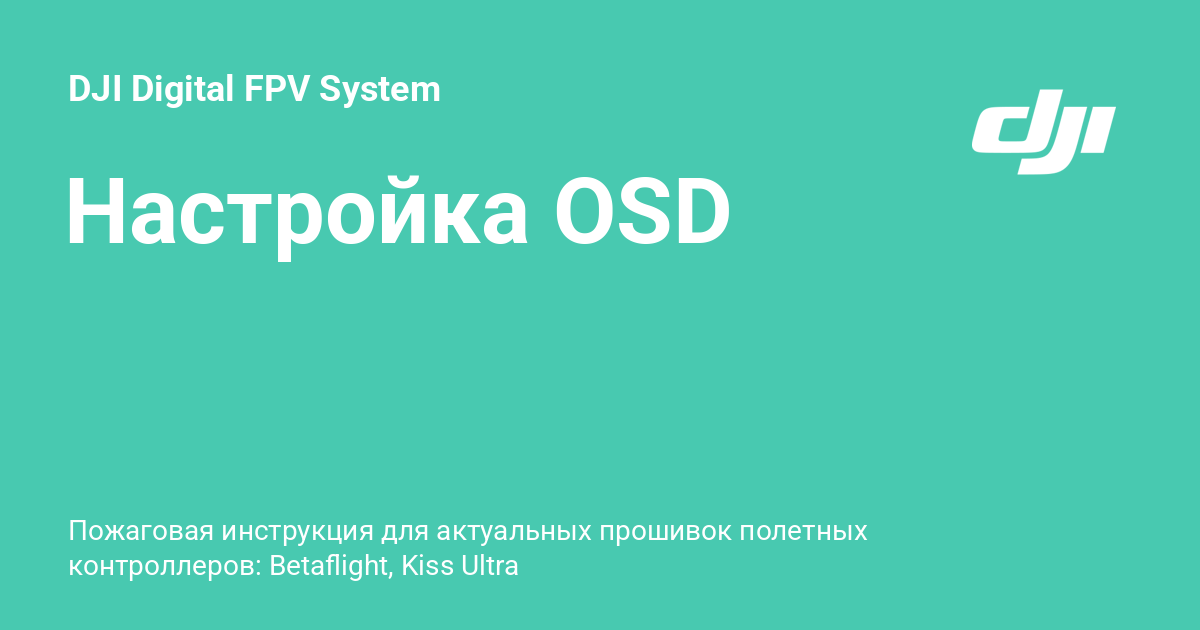
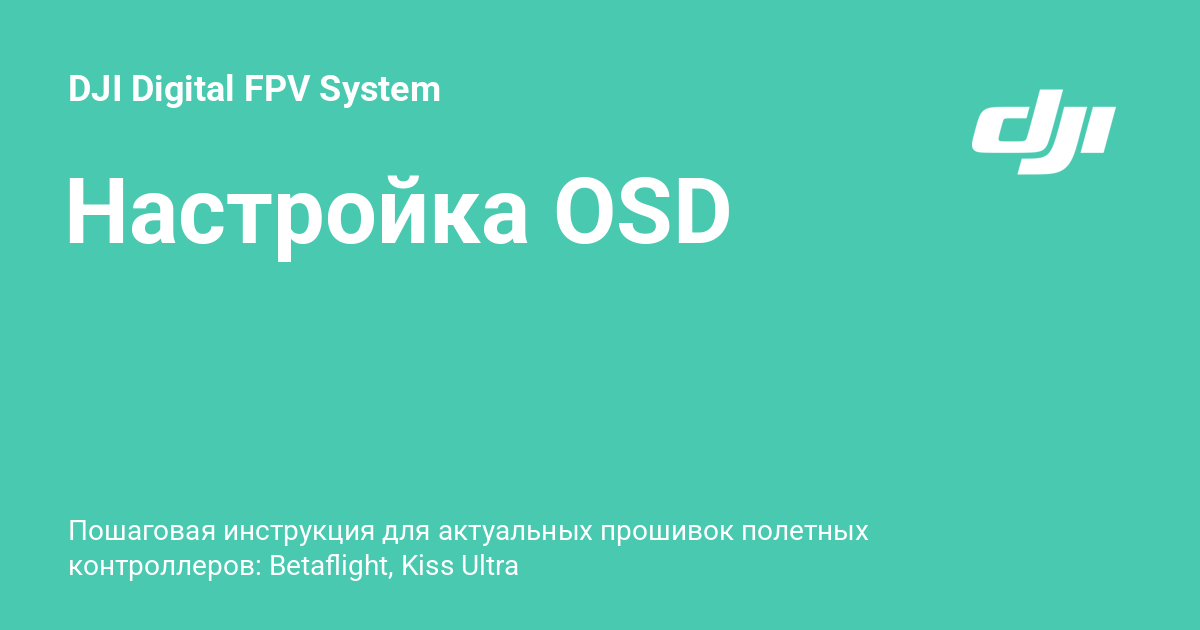
Deployed dc4ec415 with MkDocs version: 1.6.1

Changed region(s): [[0.0925, 0.8143, 0.7092, 0.8746]]

diff --git a/knowledge_base/osd/index.html b/knowledge_base/osd/index.html
@@ -6,7 +6,7 @@
       <meta charset="utf-8">
       <meta name="viewport" content="width=device-width,initial-scale=1">
       
-        <meta name="description" content="Пожаговая инструкция для актуальных прошивок полетных контроллеров: Betaflight, Kiss Ultra">
+        <meta name="description" content="Пошаговая инструкция для актуальных прошивок полетных контроллеров: Betaflight, Kiss Ultra">
       
       
         <meta name="author" content="Stanislav Kremen">
@@ -83,7 +83,7 @@
       
         <meta  property="og:title"  content="Настройка OSD - DJI Digital FPV System" >
       
-        <meta  property="og:description"  content="Пожаговая инструкция для актуальных прошивок полетных контроллеров: Betaflight, Kiss Ultra" >
+        <meta  property="og:description"  content="Пошаговая инструкция для актуальных прошивок полетных контроллеров: Betaflight, Kiss Ultra" >
       
         <meta  property="og:image"  content="https://www.djifpv.ru/assets/images/social/knowledge_base/osd.png" >
       
@@ -99,7 +99,7 @@
       
         <meta  name="twitter:title"  content="Настройка OSD - DJI Digital FPV System" >
       
-        <meta  name="twitter:description"  content="Пожаговая инструкция для актуальных прошивок полетных контроллеров: Betaflight, Kiss Ultra" >
+        <meta  name="twitter:description"  content="Пошаговая инструкция для актуальных прошивок полетных контроллеров: Betaflight, Kiss Ultra" >
       
         <meta  name="twitter:image"  content="https://www.djifpv.ru/assets/images/social/knowledge_base/osd.png" >
       
@@ -2042,7 +2042,7 @@ Allowed values: OFF, ON
     <span class="md-icon" title="Последнее обновление">
       <svg xmlns="http://www.w3.org/2000/svg" viewBox="0 0 24 24"><path d="M21 13.1c-.1 0-.3.1-.4.2l-1 1 2.1 2.1 1-1c.2-.2.2-.6 0-.8l-1.3-1.3c-.1-.1-.2-.2-.4-.2m-1.9 1.8-6.1 6V23h2.1l6.1-6.1zM12.5 7v5.2l4 2.4-1 1L11 13V7zM11 21.9c-5.1-.5-9-4.8-9-9.9C2 6.5 6.5 2 12 2c5.3 0 9.6 4.1 10 9.3-.3-.1-.6-.2-1-.2s-.7.1-1 .2C19.6 7.2 16.2 4 12 4c-4.4 0-8 3.6-8 8 0 4.1 3.1 7.5 7.1 7.9l-.1.2z"/></svg>
     </span>
-    <span class="git-revision-date-localized-plugin git-revision-date-localized-plugin-iso_date" title="23 марта 2025 г. 11:24:54">2025-03-23</span>
+    <span class="git-revision-date-localized-plugin git-revision-date-localized-plugin-iso_date" title="23 марта 2025 г. 11:28:34">2025-03-23</span>
   </span>
 
     
